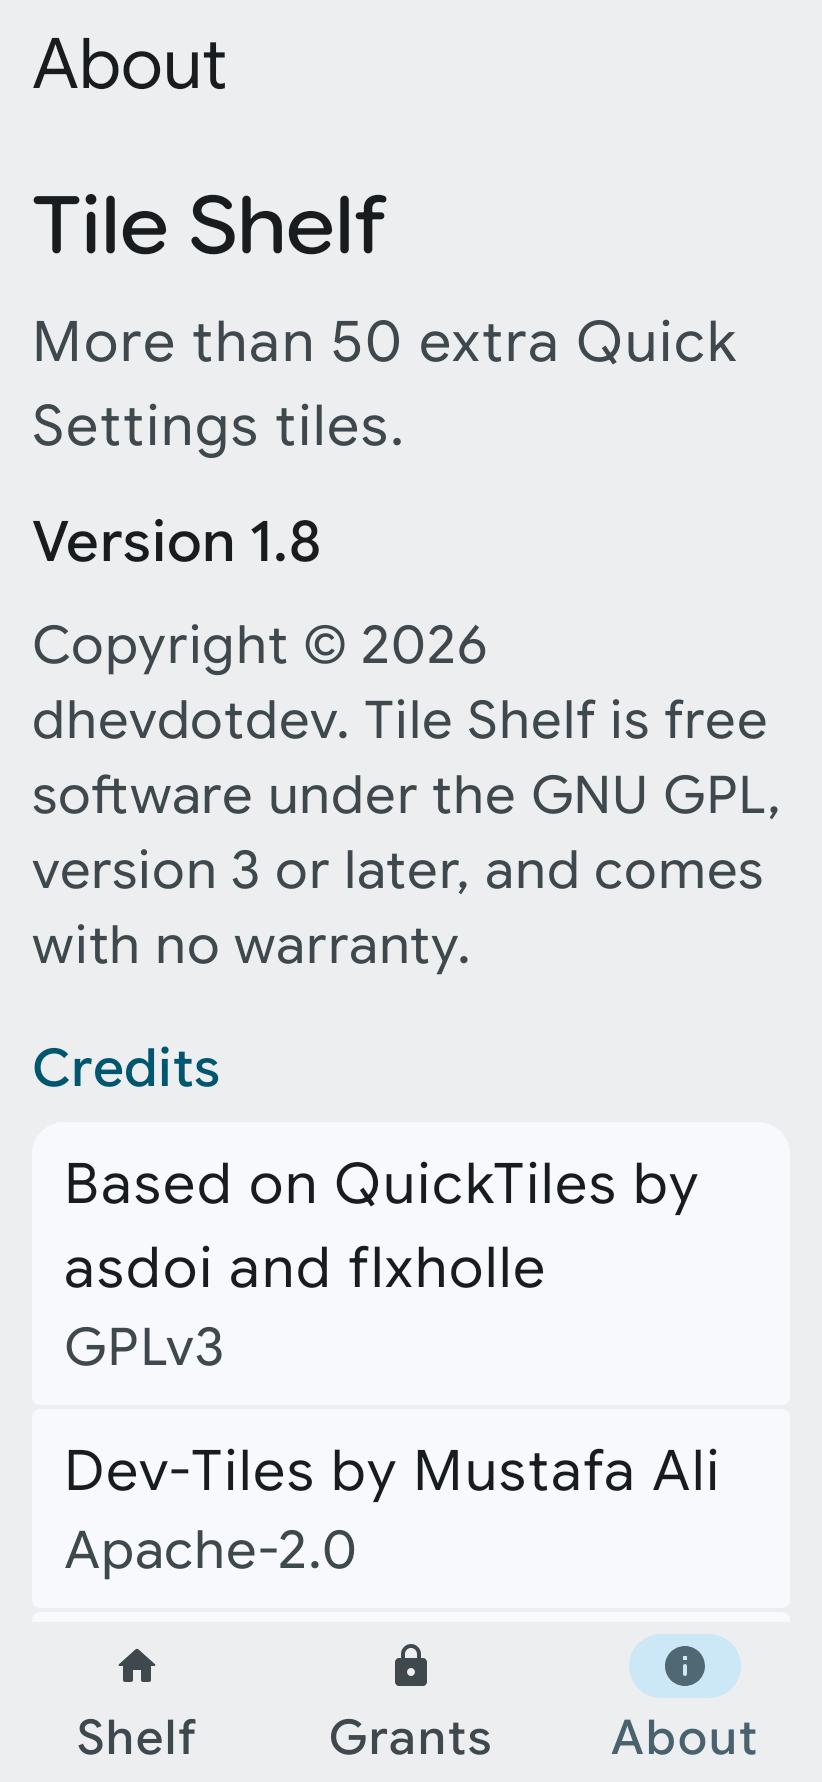
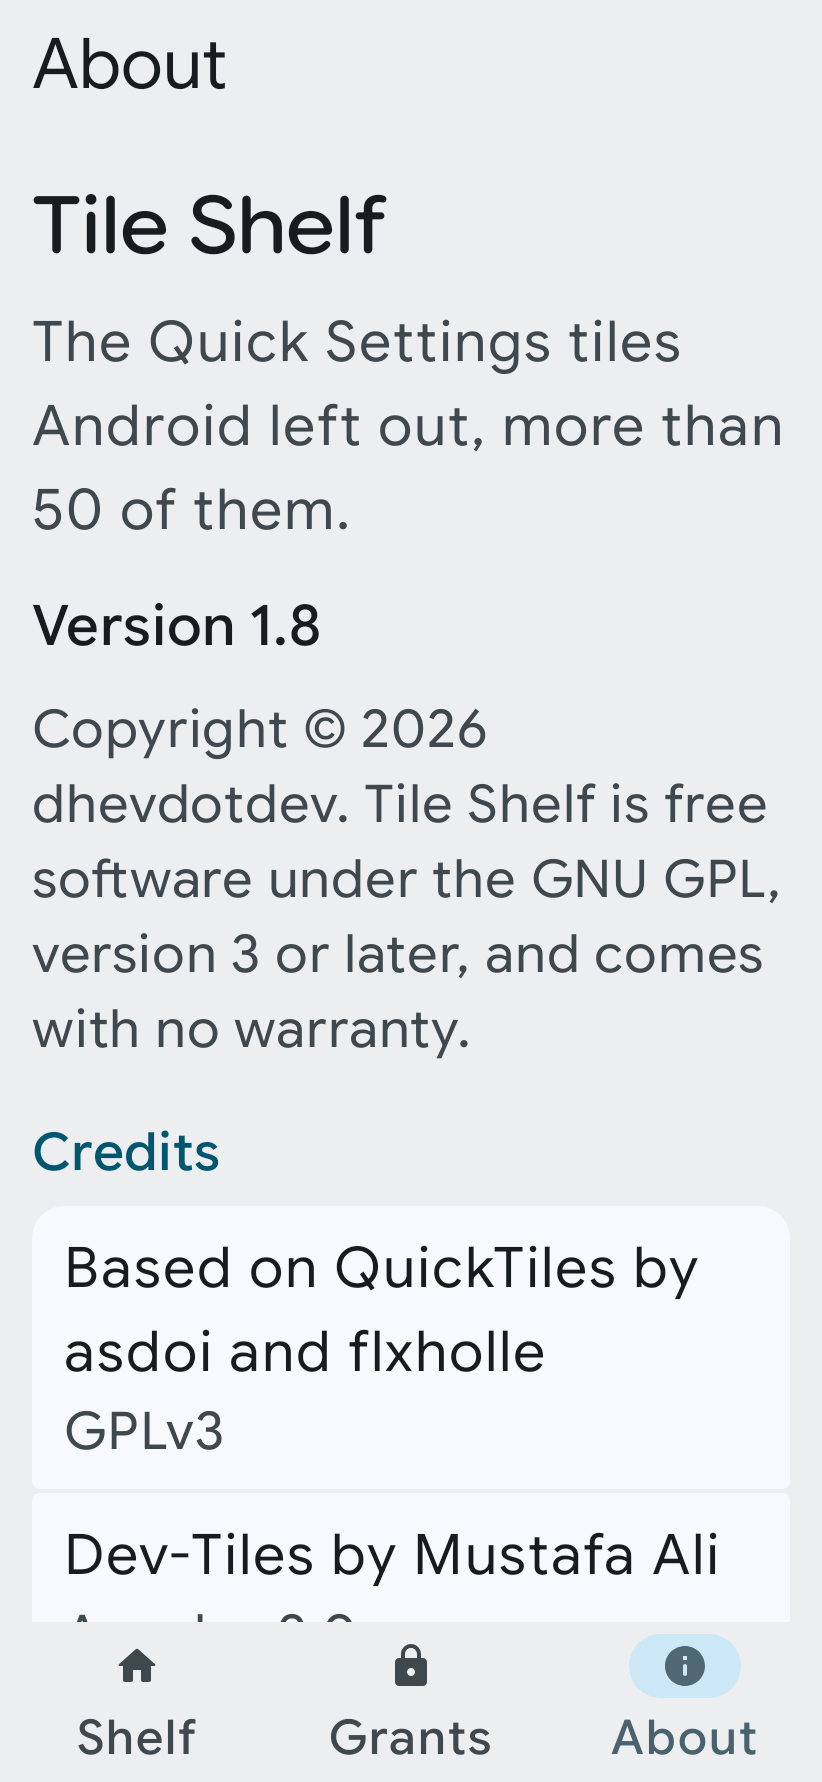
Drop the README screenshots and fold the tagline into the opening sentence

Changed region(s): [[0.0304, 0.1852, 0.9428, 0.8951], [0.7908, 0.8025, 0.882, 0.8333], [0.6995, 0.3704, 0.7299, 0.4012]]

diff --git a/README.md b/README.md
@@ -1,11 +1,6 @@
 # Tile Shelf
 
-More than 50 extra Quick Settings tiles for Android 7 and later: media controls, shortcuts to settings pages, screen and sound toggles, developer switches, and a tile that clears the clipboard.
-
-<p>
-<img src="app/screenshots/matrix/light/shelf.png" alt="The tile shelf in light theme" width="260">
-<img src="app/screenshots/matrix/dark/shelf.png" alt="The tile shelf in dark theme" width="260">
-</p>
+Tile Shelf adds the Quick Settings tiles Android left out, more than 50 of them: media controls, shortcuts to settings pages, screen and sound toggles, developer switches, and a tile that clears the clipboard. It runs on Android 7 and later.
 
 Tile Shelf has no ads, no analytics and no advertising id. It does not use root.
 
